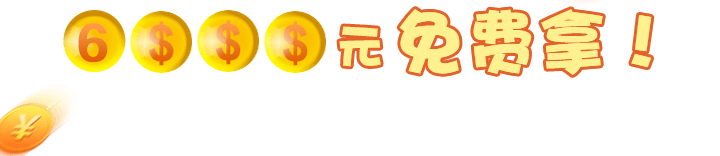
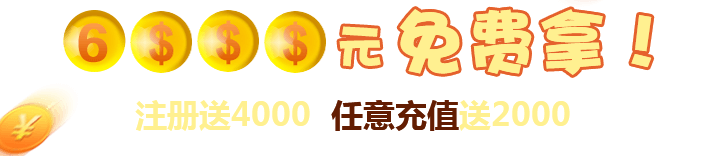
体验金活动页更换图片

Changed region(s): [[0.4583, 0.641, 0.7944, 0.8462], [0.1833, 0.641, 0.4278, 0.8462]]

diff --git a/app/views/user-center/setting.html b/app/views/user-center/setting.html
@@ -101,7 +101,7 @@
 <!-- 手机号码蒙层 -->
 <div ng-show="checkMobileFlag" class="project-mask">
   <div class="bg-white email-mask project-mask-inner">
-    <form name="resetMobileForm">
+    <form name="resetMobileForm" class="margin-b-0">
       <p class="margin-b-0 text-center">
         <span>手机号码&nbsp;&nbsp;</span>
         <input type="text" id="mobileNum" name="mobileNum" ng-model="mobileNum" ng-pattern="/^((13[0-9])|(15[^4,\D])|(18[0-9])|(17[0678])|(14[0-9]))\d{8}$/" ensure-unique-mobile="mobileNum" placeholder="请输入手机号码" ng-focus required autofocus/>
@@ -123,6 +123,6 @@
     </form>
     <p class="project-mask-btn2">
       <span ng-click="checkMobileFlag=false">取消</span>
-      <span ng-click="resetMobile(mobileNum)">确定</span></p>
+      <span ng-disabled="resetMobileForm.$invalid" ng-click="resetMobile(mobileNum)" my-click-once ng-class="{'active-span': !resetMobileForm.$invalid}">确定</span></p>
   </div>
 </div>

diff --git a/app/styles/user-center.less b/app/styles/user-center.less
@@ -392,7 +392,7 @@
 }
 
 .email-mask {
-  padding-top: 2rem;
+  padding-top: 1.5rem;
   font-family: "microsoft yahei";
   p:nth-child(1) {
     padding: 1rem 2rem;
@@ -422,13 +422,13 @@
   }
   p:last-child {
     //padding: 1rem 0 !important;
-    height: 5rem;
-    line-height: 5rem;
+    height: 4rem;
+    line-height: 4rem;
     font-size: 1.6rem;
     span {
       display: inline-block;
       float: left;
-      width: 49.5%;
+      width: 49.8%;
       text-align: center;
     }
     span:nth-child(1) {
@@ -438,6 +438,11 @@
     span:last-child {
       color: #fd8f3f;
       text-align: center;
+    }
+    .active-span {
+      background-color: #fd8f3f;
+      color: white !important;
+      border-bottom-right-radius: 0.5rem;
     }
   }
 }

diff --git a/app/styles/common.less b/app/styles/common.less
@@ -937,7 +937,7 @@ Opera
 }
 
 .project-mask-btn2 {
-  margin-top: 3rem;
+  margin-top: 1.5rem;
   border-top: 0.1rem solid #bbb;
   clear: both;
 }
